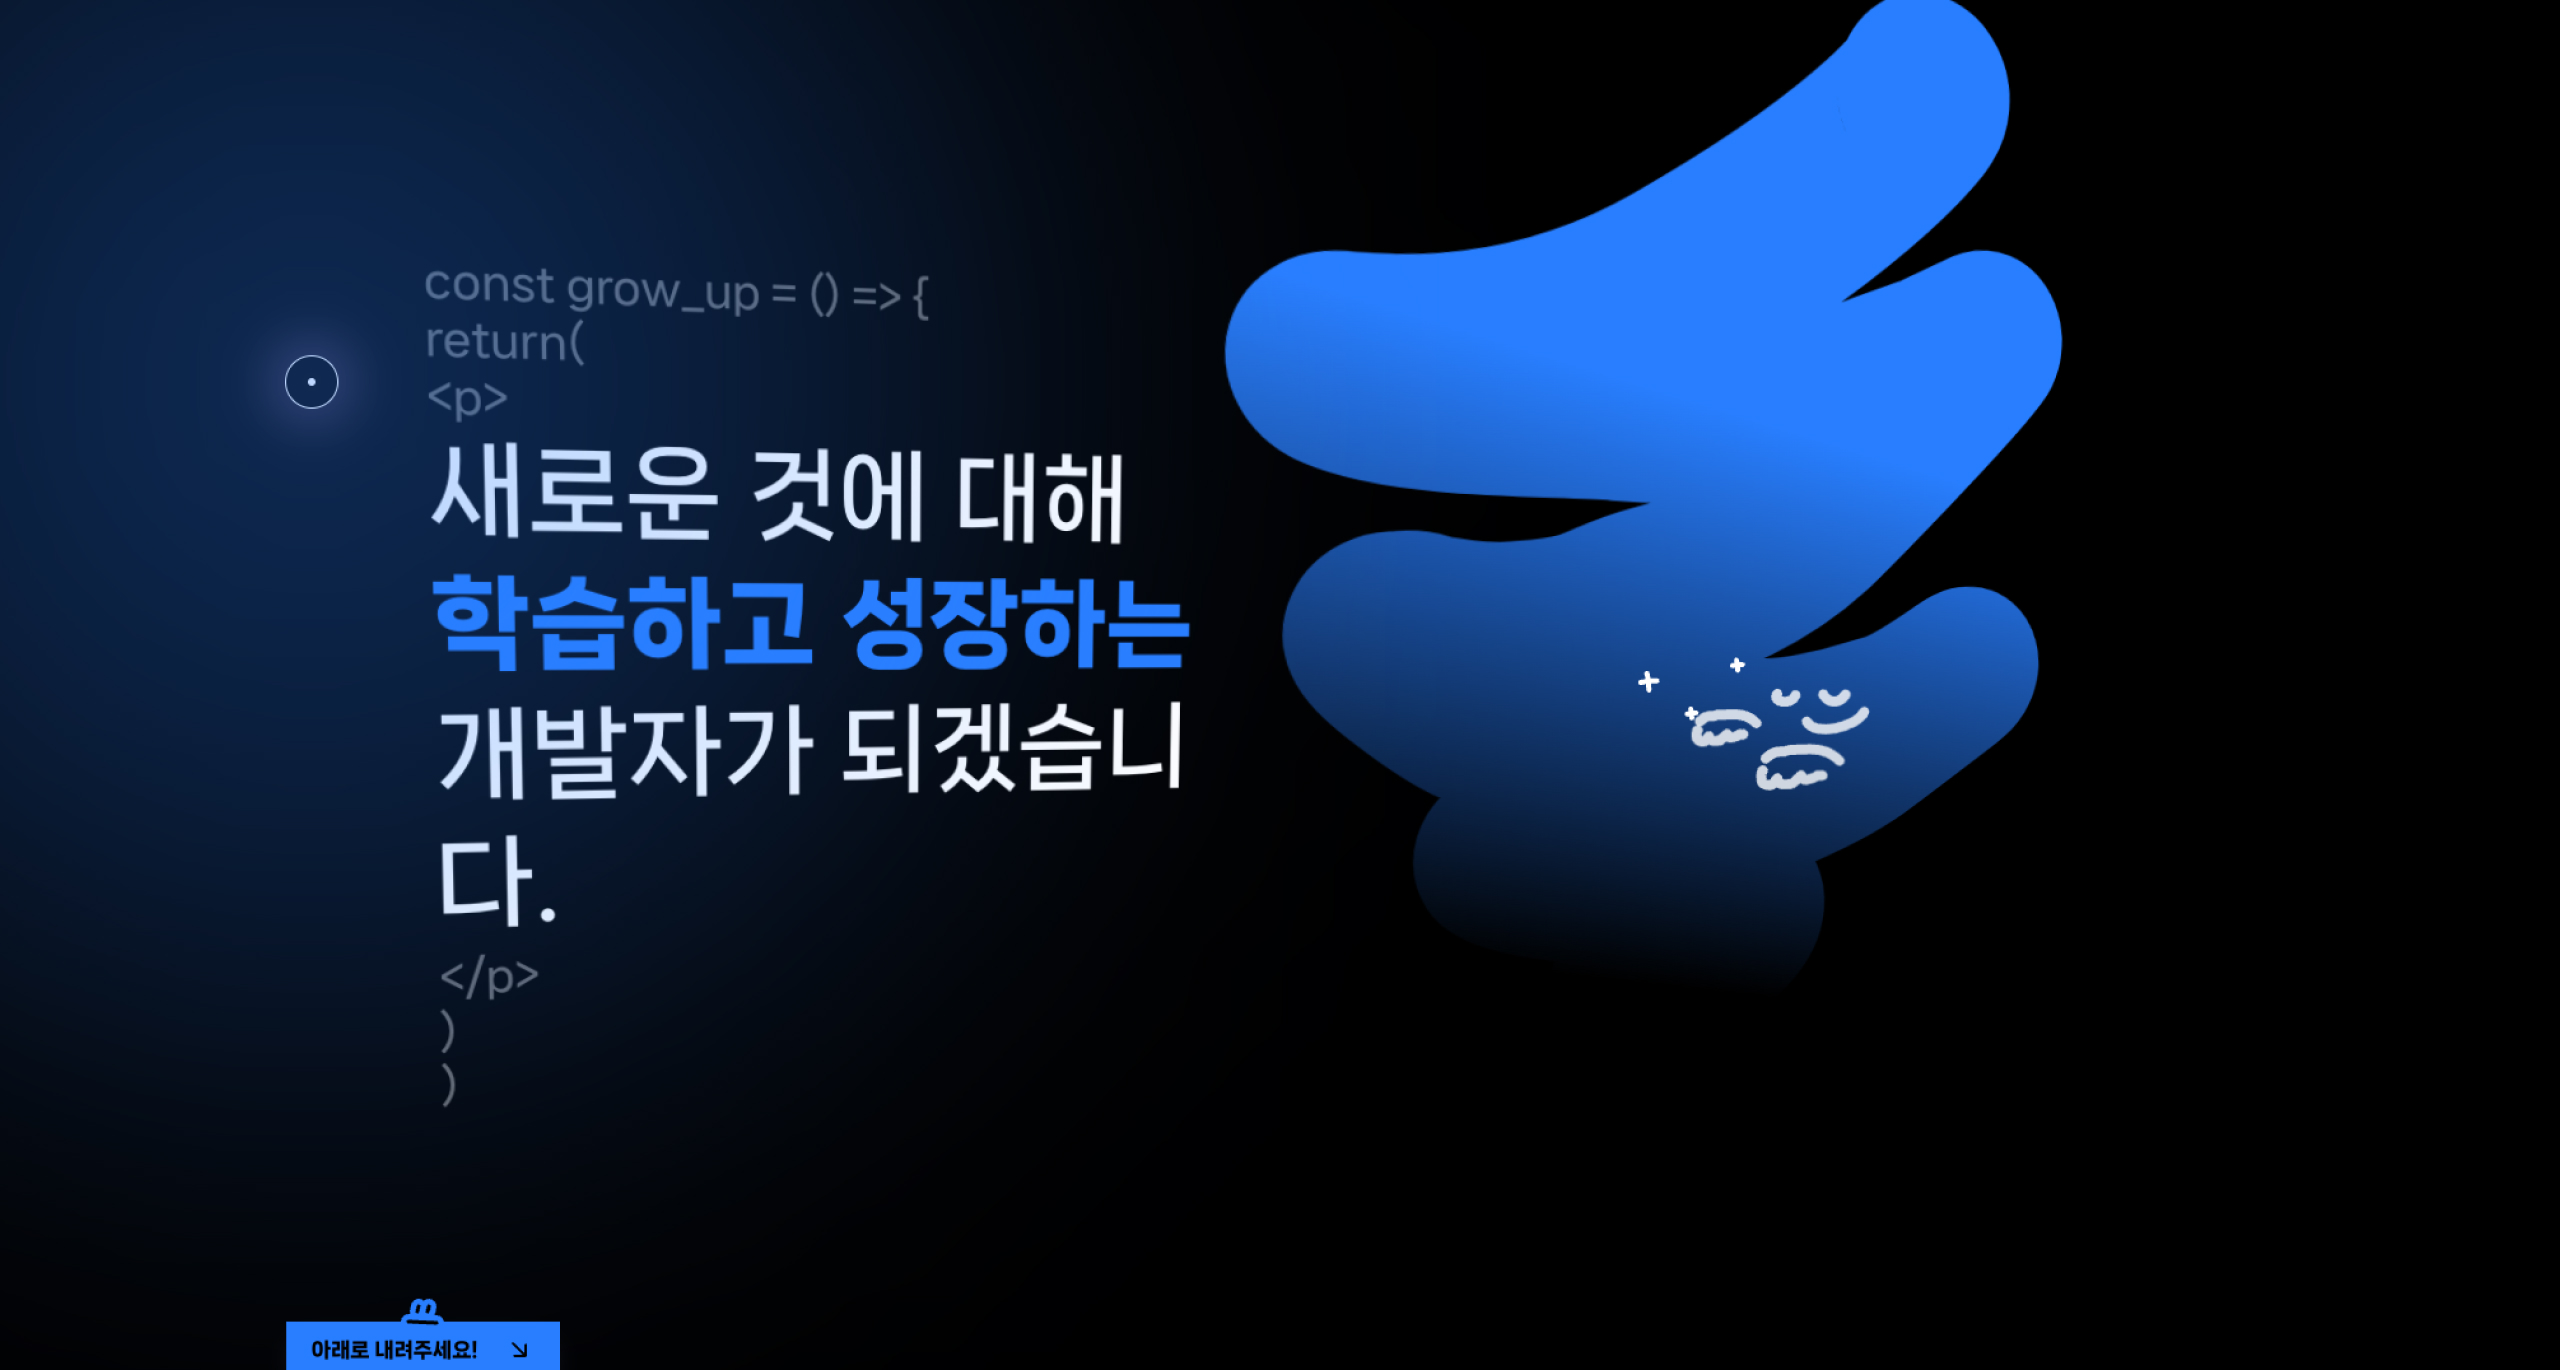
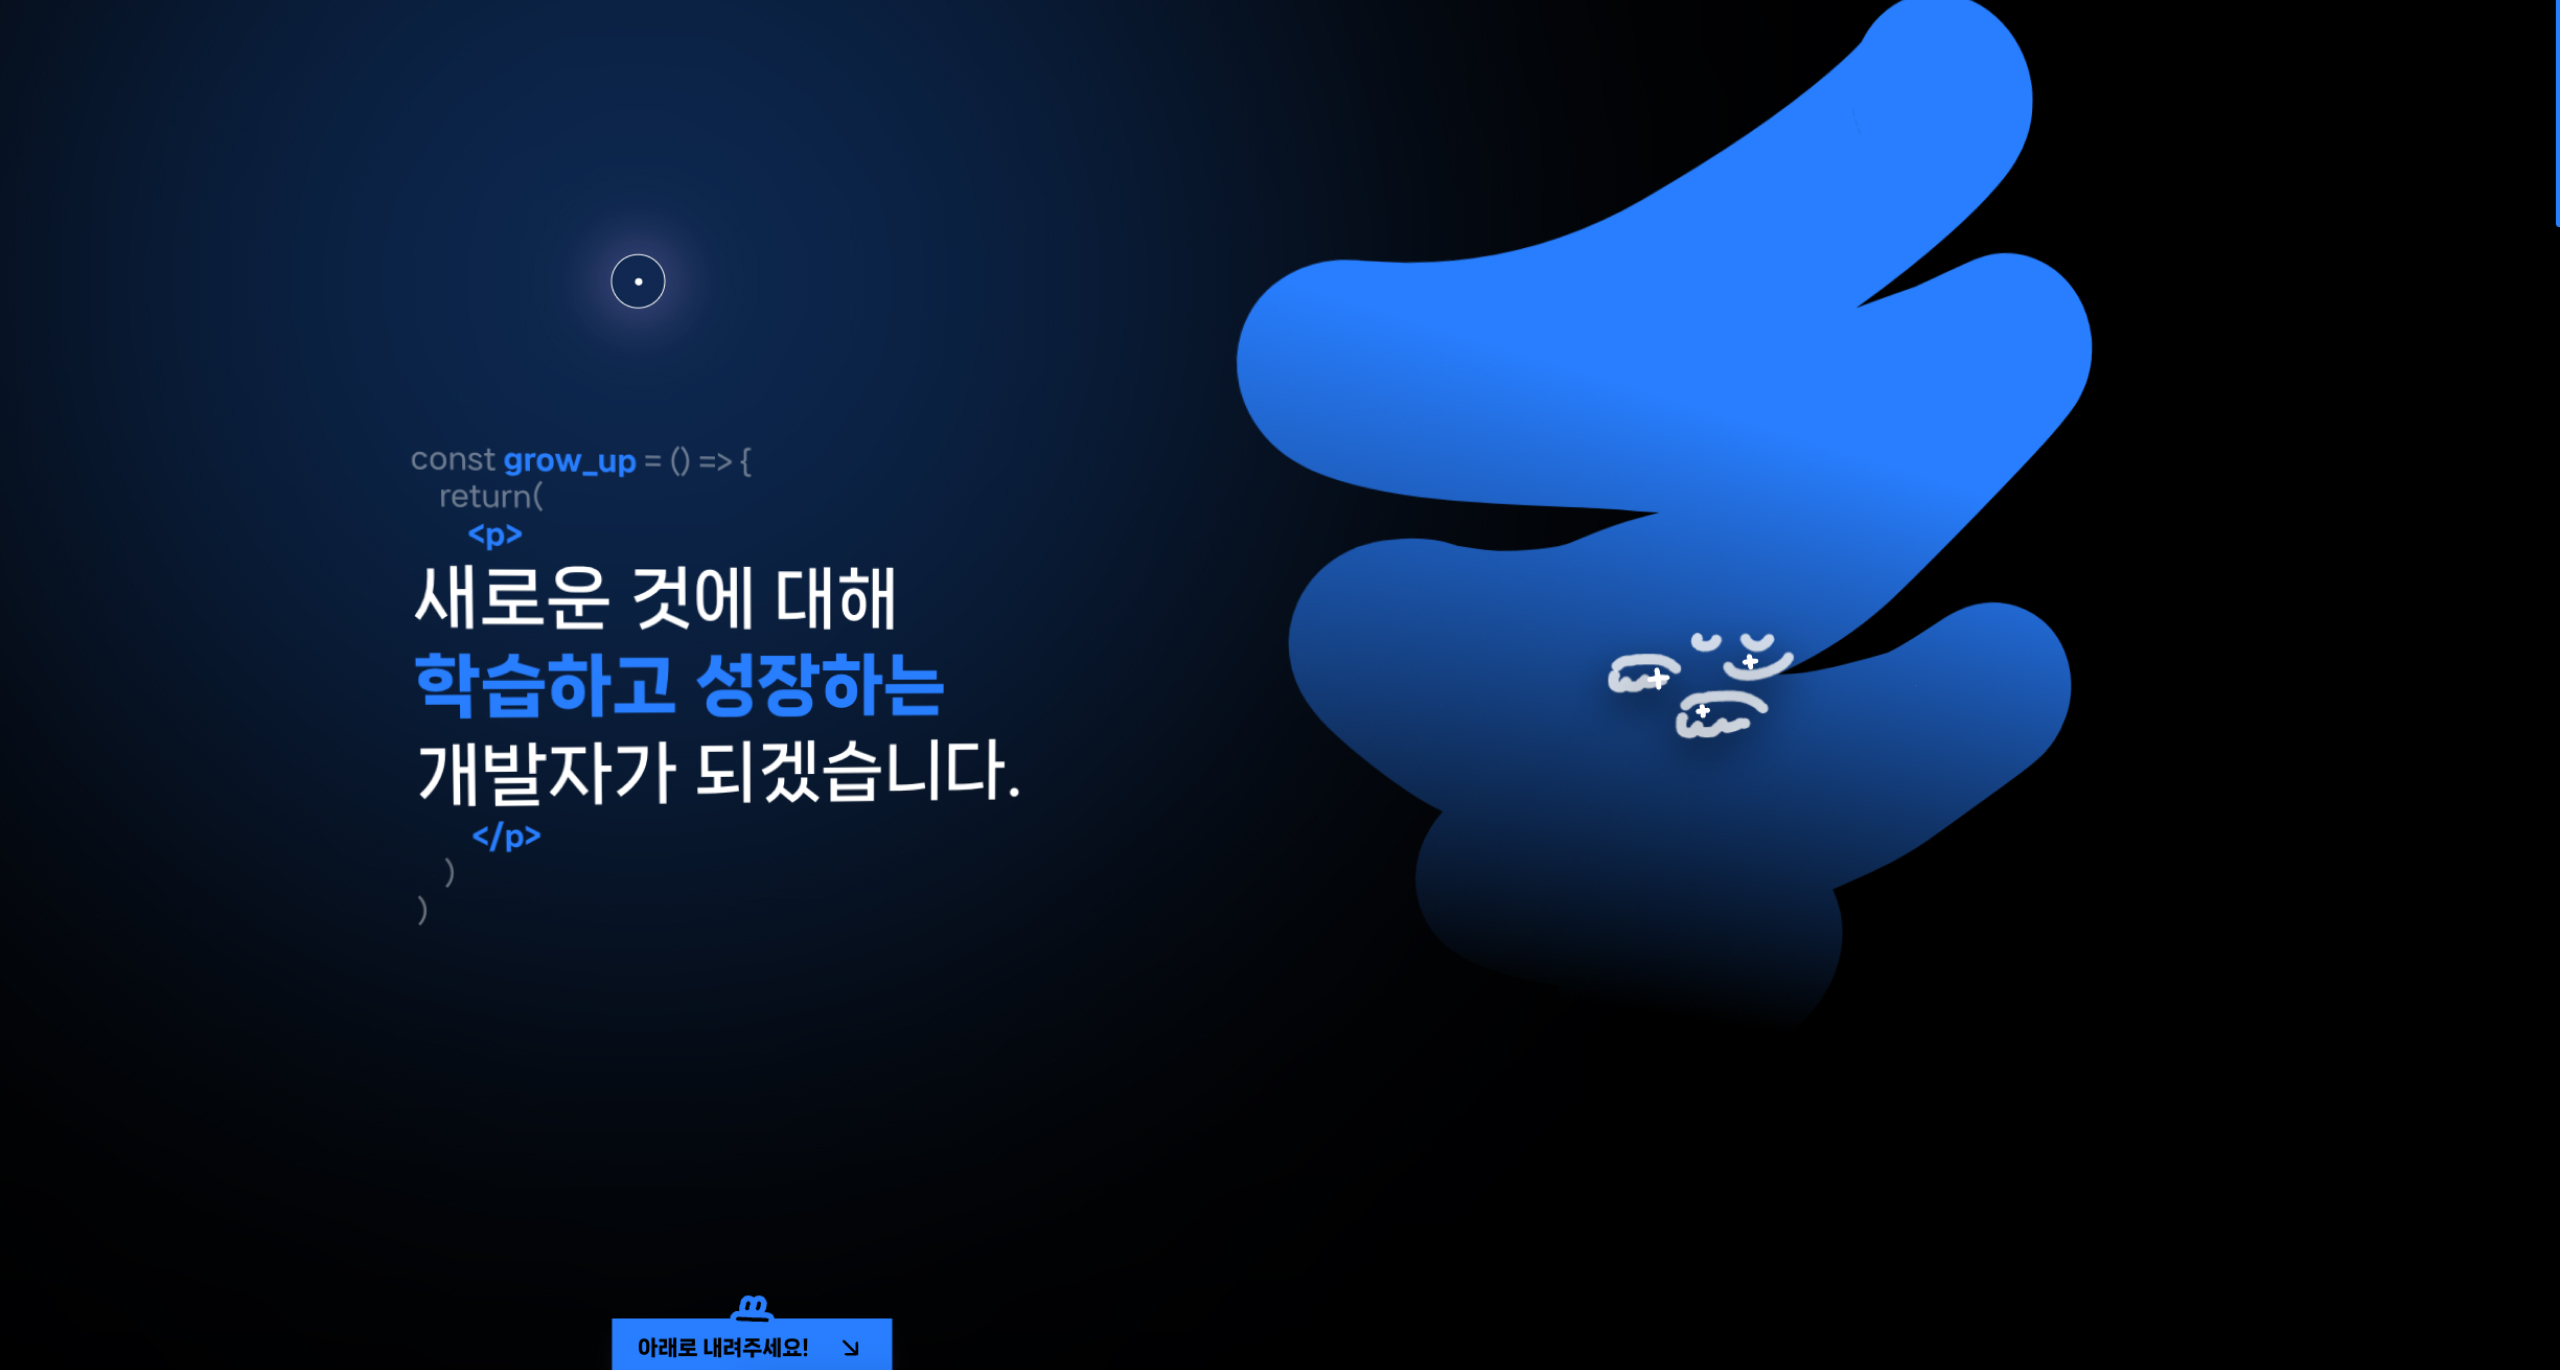
Fix: json 내용 수정

diff --git a/src/assets/css/landing.scss b/src/assets/css/landing.scss
@@ -48,7 +48,7 @@
 			.row {
 				h2 {
 					/* width: 100%; */
-					font-size: 3vmin;
+					font-size: 2vmin;
 					font-weight: 700;
 					position: relative;
 					color: rgba(255, 255, 255, 0.4);
